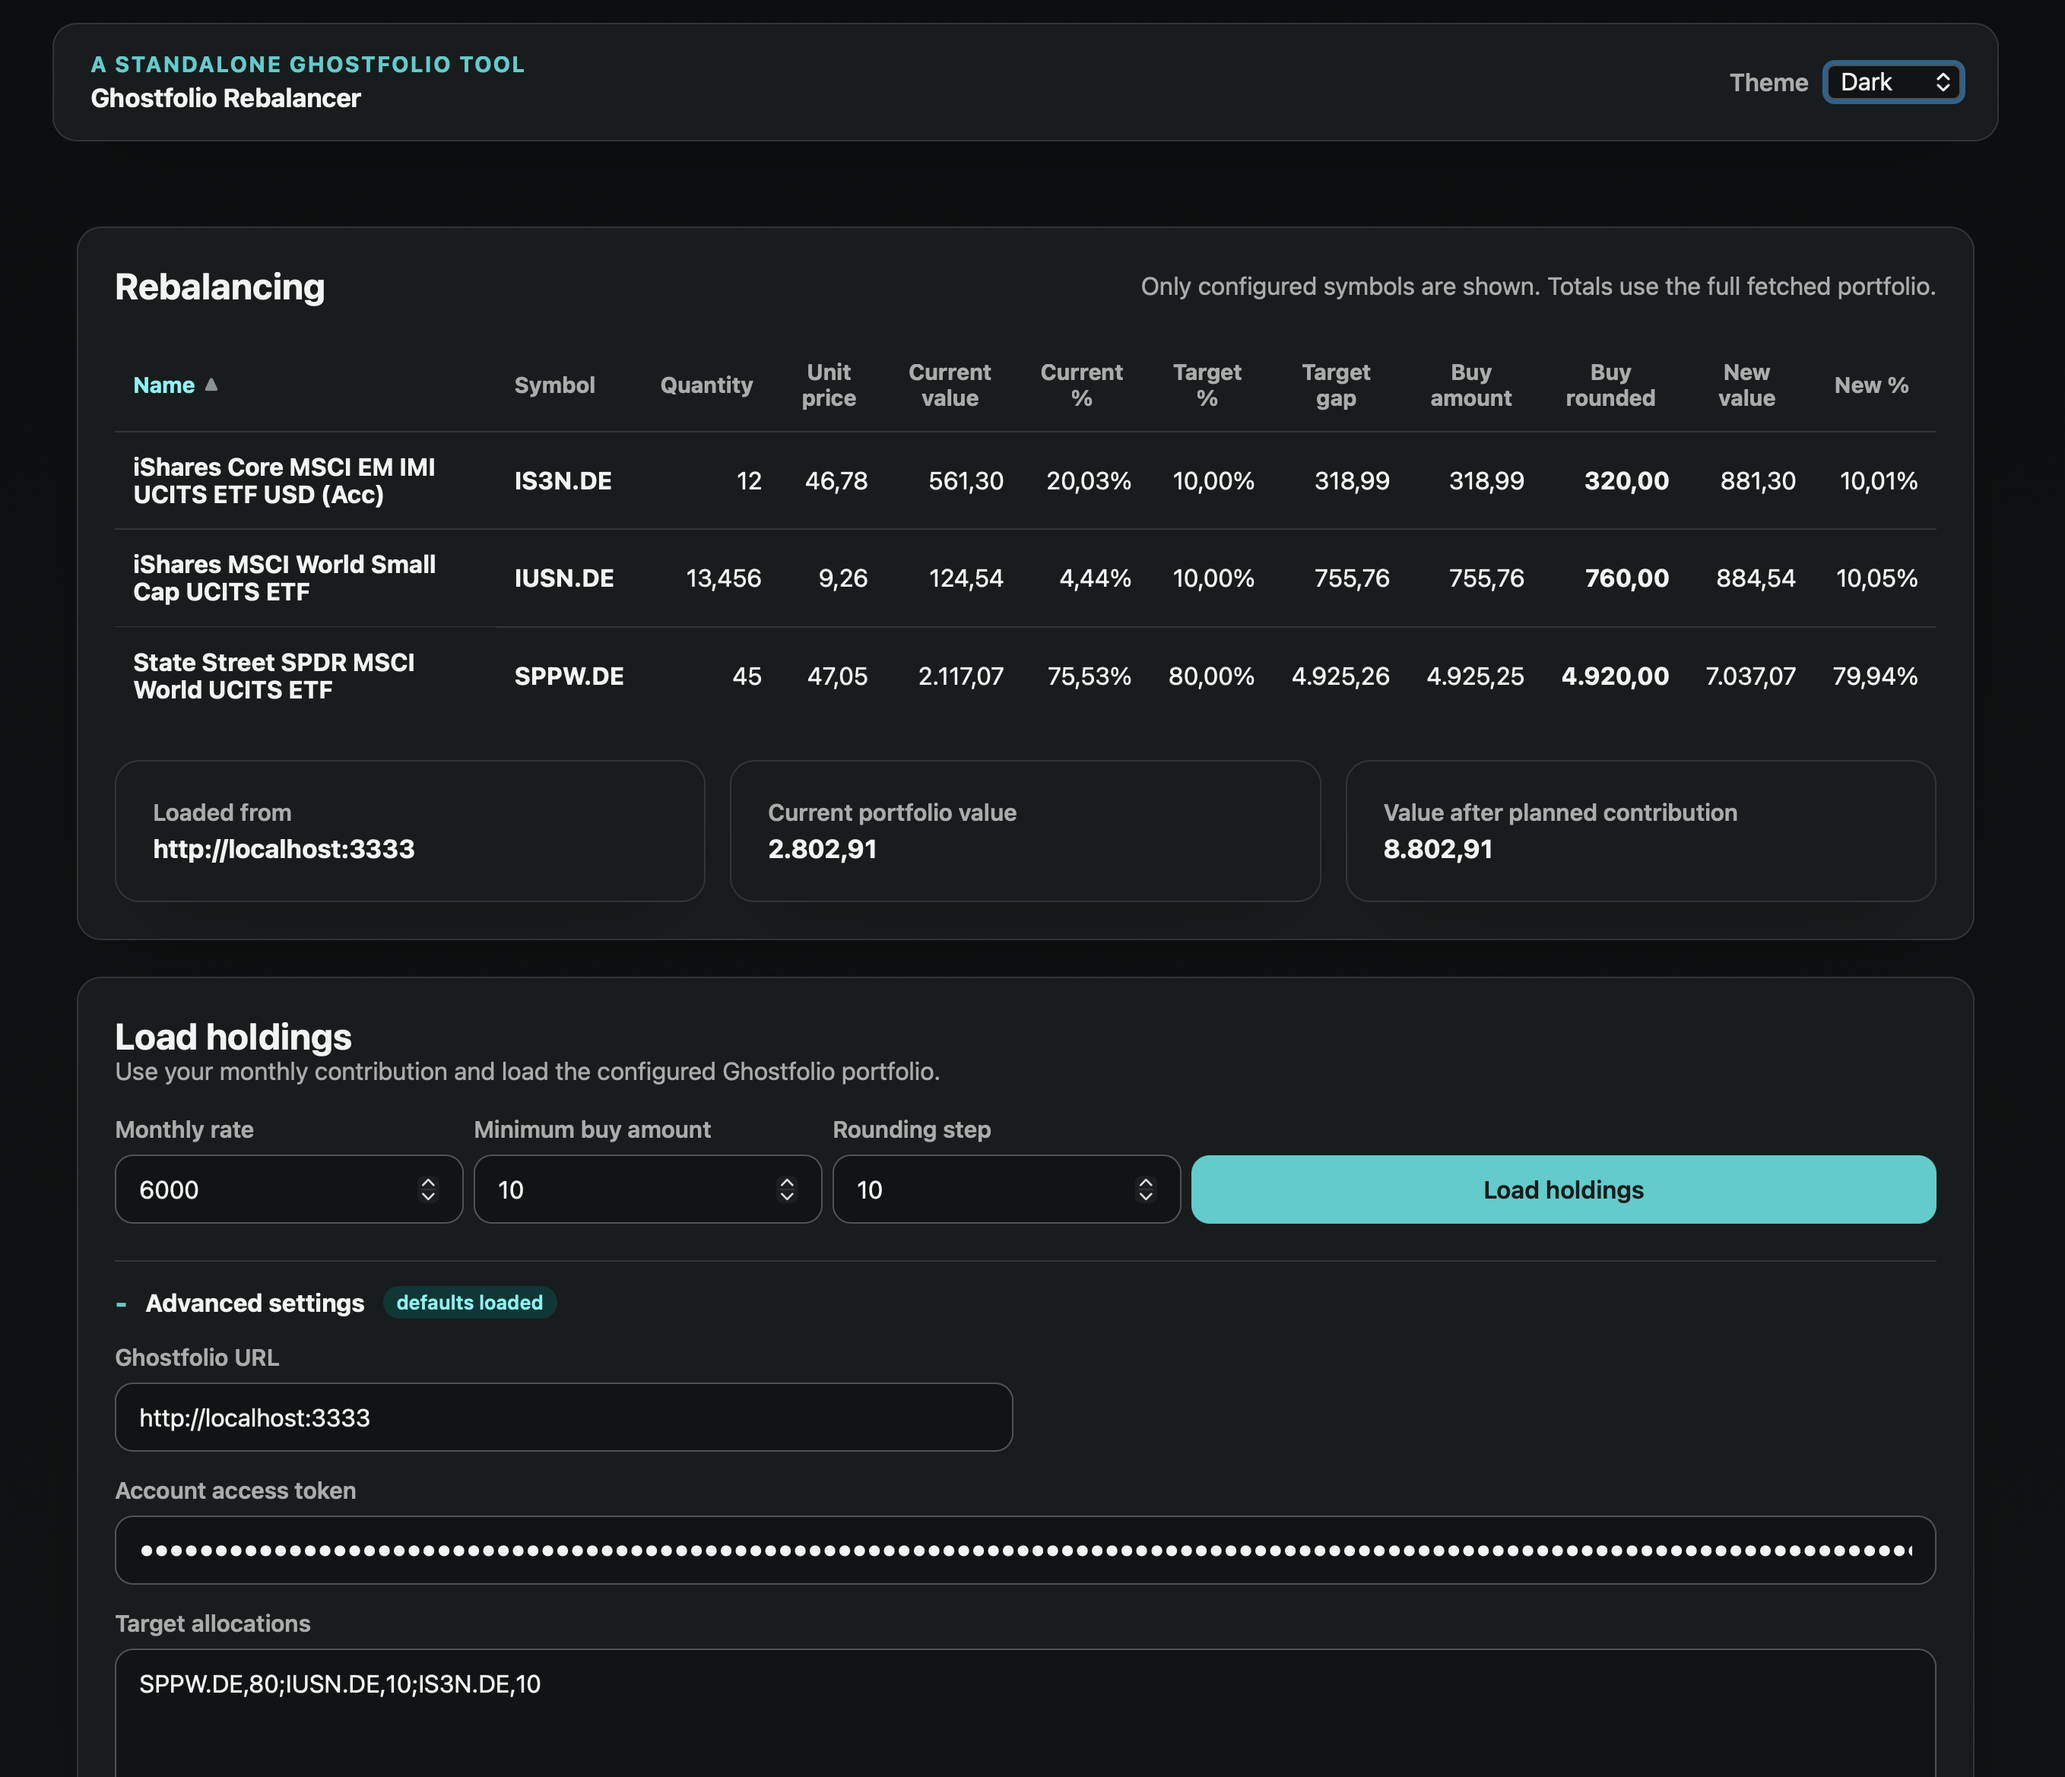
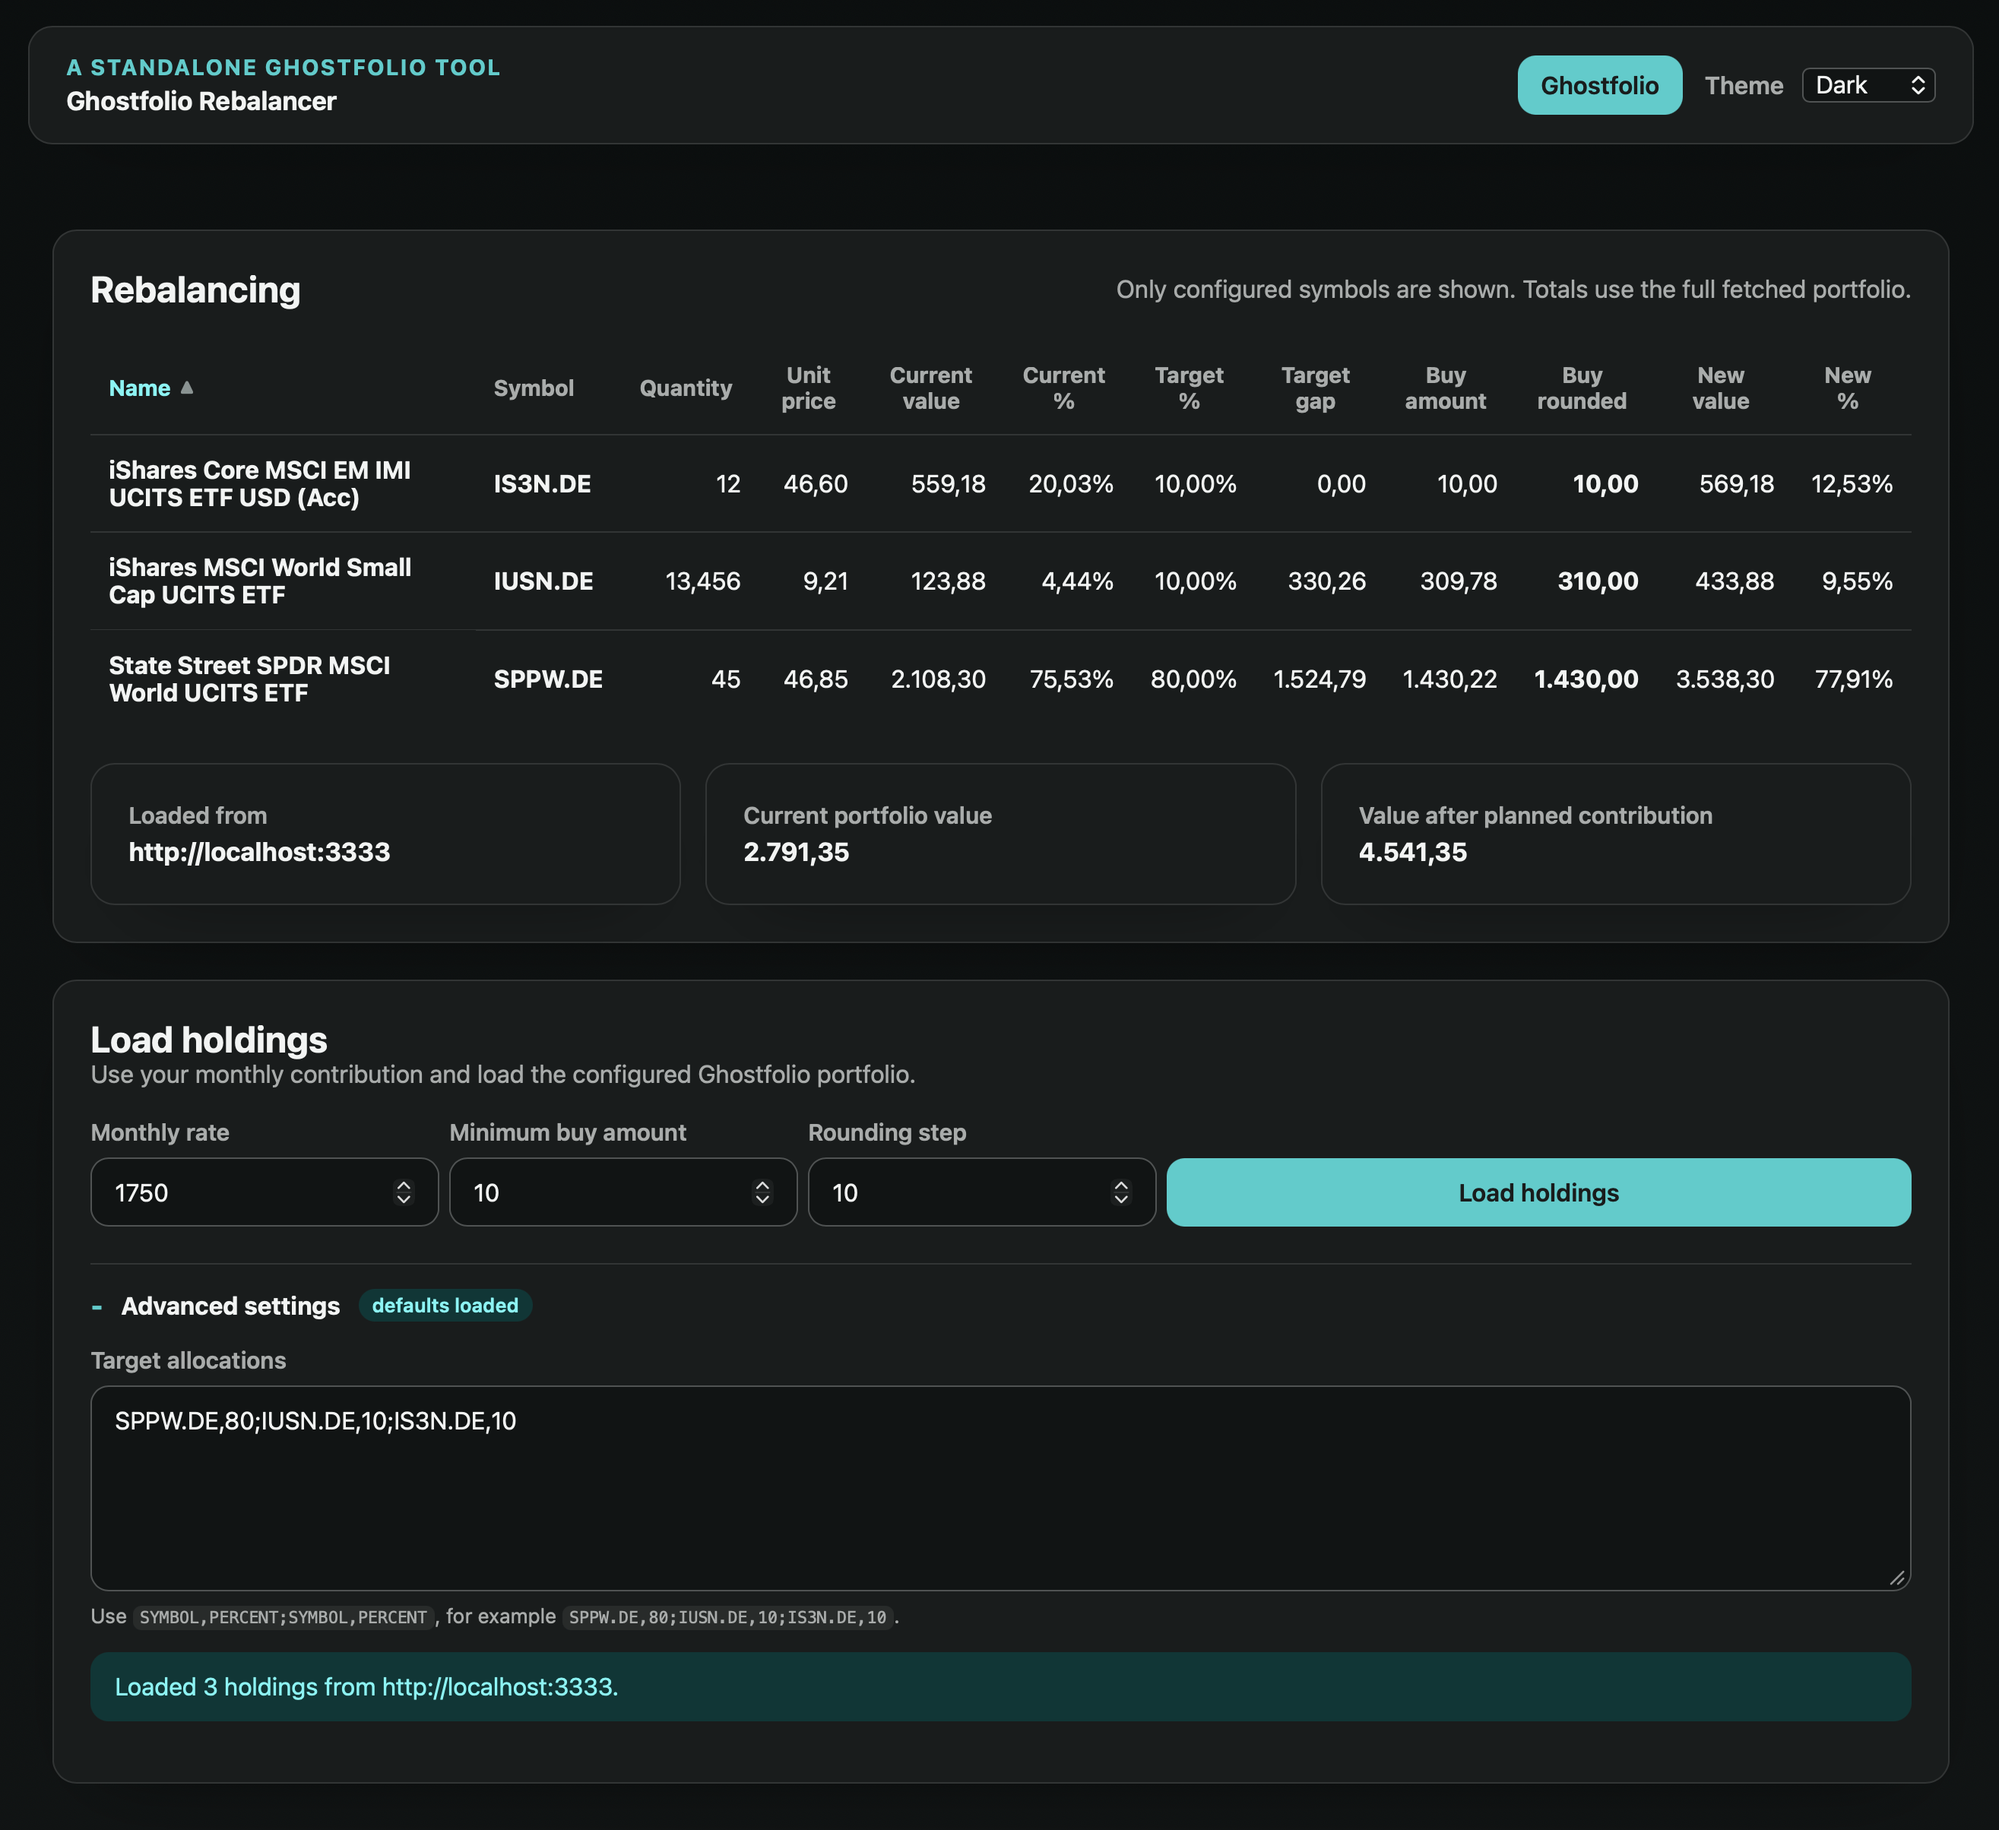
direct link to Ghostfolio

diff --git a/src/app/app.ts b/src/app/app.ts
@@ -1,10 +1,29 @@
 import { DOCUMENT } from '@angular/common';
-import { Component, DestroyRef, effect, inject, signal } from '@angular/core';
+import { Component, DestroyRef, computed, effect, inject, signal } from '@angular/core';
 import { RouterOutlet } from '@angular/router';
+import { firstValueFrom } from 'rxjs';
+
+import { AuthService } from './app/auth/auth.service';
+import { GhostfolioApi } from './app/services/ghostfolio-api';
 
 type ThemeMode = 'system' | 'light' | 'dark';
 
 const THEME_STORAGE_KEY = 'ghostfolio-rebalancer-theme';
+const SUPPORTED_GHOSTFOLIO_LANGUAGES = new Set([
+  'ca',
+  'de',
+  'en',
+  'es',
+  'fr',
+  'it',
+  'ko',
+  'nl',
+  'pl',
+  'pt',
+  'tr',
+  'uk',
+  'zh'
+]);
 
 @Component({
   selector: 'app-root',
@@ -13,9 +32,19 @@ const THEME_STORAGE_KEY = 'ghostfolio-rebalancer-theme';
   styleUrl: './app.scss'
 })
 export class App {
+  private readonly authService = inject(AuthService);
   private readonly destroyRef = inject(DestroyRef);
   private readonly document = inject(DOCUMENT);
+  private readonly ghostfolioApi = inject(GhostfolioApi);
+  protected readonly ghostfolioErrorMessage = signal('');
+  protected readonly isGhostfolioLoading = signal(false);
   protected readonly themeMode = signal<ThemeMode>(readStoredThemeMode());
+  protected readonly showGhostfolioButton = computed(() => {
+    return Boolean(this.authService.baseUrl() && this.authService.accessToken());
+  });
+  protected readonly canOpenGhostfolio = computed(() => {
+    return this.showGhostfolioButton() && !this.isGhostfolioLoading();
+  });
   private readonly systemPrefersDark = signal(readSystemPrefersDark());
 
   constructor() {
@@ -48,6 +77,51 @@ export class App {
       this.themeMode.set(value);
     }
   }
+
+  protected async openGhostfolio() {
+    const baseUrl = this.authService.baseUrl();
+    const accessToken = this.authService.accessToken();
+
+    this.ghostfolioErrorMessage.set('');
+
+    if (!baseUrl || !accessToken) {
+      return;
+    }
+
+    const popup = window.open('', '_blank');
+
+    if (!popup) {
+      this.ghostfolioErrorMessage.set(
+        'The browser blocked opening a new tab. Please allow popups and try again.'
+      );
+      return;
+    }
+
+    popup.opener = null;
+
+    this.isGhostfolioLoading.set(true);
+
+    try {
+      const authToken = await firstValueFrom(
+        this.ghostfolioApi.authenticate(baseUrl, accessToken)
+      );
+      const language = resolveBrowserLanguage();
+      const ghostfolioAuthUrl = new URL(
+        `${language}/auth/${encodeURIComponent(authToken)}`,
+        `${baseUrl}/`
+      ).toString();
+      popup.location.replace(ghostfolioAuthUrl);
+    } catch {
+      if (!popup.closed) {
+        popup.close();
+      }
+      this.ghostfolioErrorMessage.set(
+        'Ghostfolio direct login failed. Please verify your access token and try again.'
+      );
+    } finally {
+      this.isGhostfolioLoading.set(false);
+    }
+  }
 }
 
 function readStoredThemeMode(): ThemeMode {
@@ -62,4 +136,22 @@ function readStoredThemeMode(): ThemeMode {
 
 function readSystemPrefersDark(): boolean {
   return window.matchMedia('(prefers-color-scheme: dark)').matches;
+}
+
+function resolveBrowserLanguage(): string {
+  const localeCandidate = navigator.language || navigator.languages?.[0] || '';
+  const normalizedCandidate = localeCandidate.trim().toLowerCase();
+  const languageMatch = normalizedCandidate.match(/^[a-z]{2}/);
+
+  if (!languageMatch) {
+    return 'en';
+  }
+
+  const language = languageMatch[0];
+
+  if (!SUPPORTED_GHOSTFOLIO_LANGUAGES.has(language)) {
+    return 'en';
+  }
+
+  return language;
 }

diff --git a/src/app/app.html b/src/app/app.html
@@ -4,14 +4,31 @@
     <strong>Ghostfolio Rebalancer</strong>
   </div>
 
-  <label class="theme-picker">
-    <span>Theme</span>
-    <select [value]="themeMode()" (change)="updateThemeMode($event)">
-      <option value="system">System</option>
-      <option value="light">Light</option>
-      <option value="dark">Dark</option>
-    </select>
-  </label>
+  <div class="toolbar-actions">
+    @if (showGhostfolioButton()) {
+      <button
+        class="ghostfolio-link-button"
+        type="button"
+        [disabled]="!canOpenGhostfolio()"
+        (click)="openGhostfolio()"
+      >
+        {{ isGhostfolioLoading() ? 'Opening Ghostfolio...' : 'Ghostfolio' }}
+      </button>
+    }
+
+    <label class="theme-picker">
+      <span>Theme</span>
+      <select [value]="themeMode()" (change)="updateThemeMode($event)">
+        <option value="system">System</option>
+        <option value="light">Light</option>
+        <option value="dark">Dark</option>
+      </select>
+    </label>
+  </div>
 </header>
+
+@if (ghostfolioErrorMessage()) {
+  <p class="app-toolbar-message">{{ ghostfolioErrorMessage() }}</p>
+}
 
 <router-outlet></router-outlet>

diff --git a/src/app/app.scss b/src/app/app.scss
@@ -15,6 +15,31 @@
   margin: 1.5rem auto 0;
   max-width: 1280px;
   padding: 1.1rem 1.5rem;
+  position: relative;
+  z-index: 20;
+}
+
+.toolbar-actions {
+  align-items: center;
+  display: flex;
+  gap: 0.9rem;
+}
+
+.ghostfolio-link-button {
+  background: var(--app-primary);
+  border: 0;
+  border-radius: 0.75rem;
+  color: var(--app-surface);
+  cursor: pointer;
+  font: inherit;
+  font-weight: 600;
+  padding: 0.65rem 0.95rem;
+}
+
+.ghostfolio-link-button:disabled {
+  color: var(--app-muted-text);
+  cursor: not-allowed;
+  opacity: 0.8;
 }
 
 .toolbar-copy {
@@ -54,4 +79,25 @@
   color: var(--app-text);
   font: inherit;
   padding: 0.65rem 0.85rem;
+}
+
+.app-toolbar-message {
+  background: var(--app-error-bg);
+  border: 1px solid var(--app-border);
+  border-radius: 0.75rem;
+  color: var(--app-error-text);
+  margin: 0.75rem auto 0;
+  max-width: 1280px;
+  padding: 0.75rem 1rem;
+}
+
+@media (max-width: 960px) {
+  .app-toolbar {
+    flex-wrap: wrap;
+  }
+
+  .toolbar-actions {
+    justify-content: flex-end;
+    width: 100%;
+  }
 }
